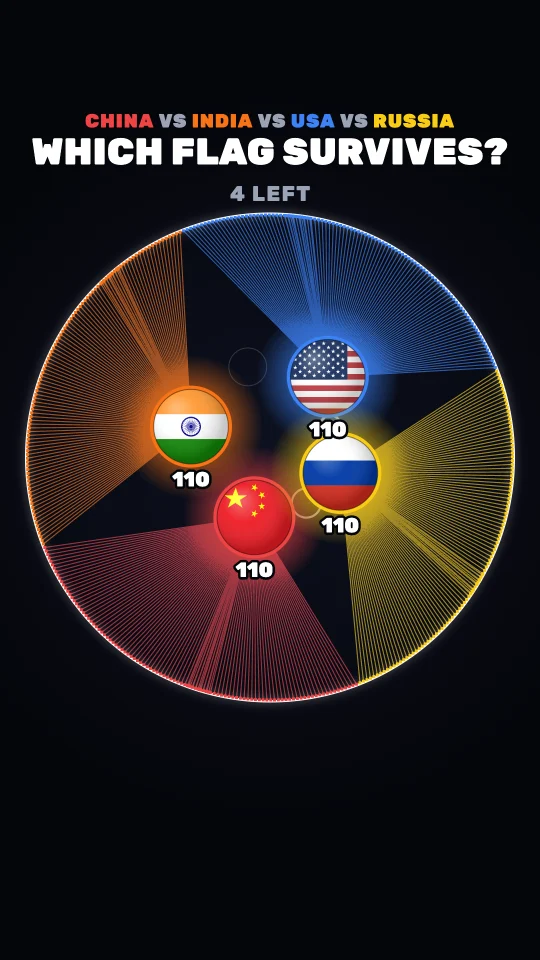
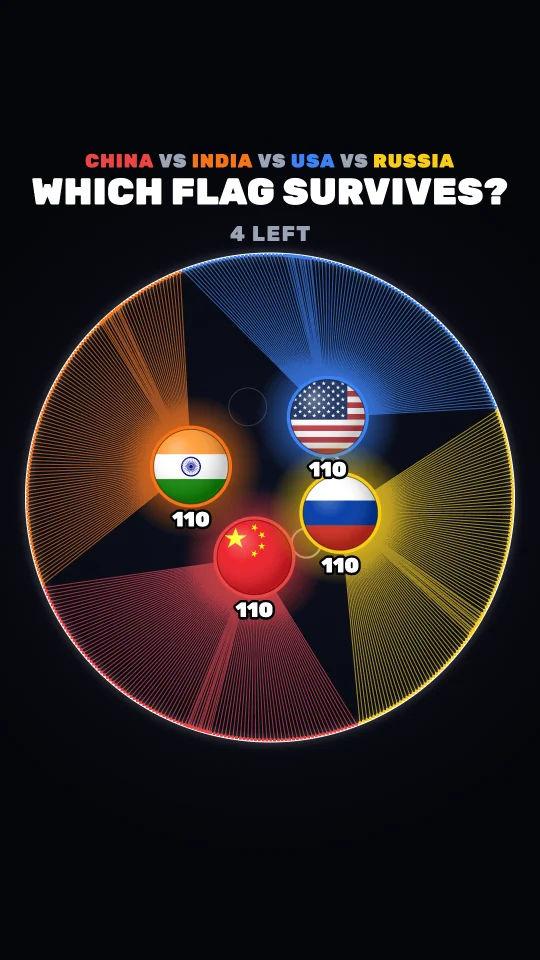
fix: draw arena clash lower on the frame

diff --git a/src/render/battle.ts b/src/render/battle.ts
@@ -36,10 +36,19 @@ const STAGE_LIT = '#0d1120';
 const PANEL = '#12162a';
 /** The words that are not the headline: how many are left, the result under the winner. */
 const MUTED = '#9aa3b5';
-/** The title block, by the middle of each line: under the platforms' top bar (to y 209), over the ring (from 430). */
-const KICKER_Y = 244;
-const HEADLINE_Y = 308;
-const STATUS_Y = 388;
+/**
+ * px the whole picture sits below the simulation's arena (layout.ts ARENA): the ring is drawn
+ * centred at y 995, not 915. Moved in the drawing alone, since a battle's every px is worked out
+ * from where the arena is, and a battle recorded before must open again in the studio exactly as
+ * it played. Measured on the three apps on a 6.1" phone, where the video fills the screen's
+ * height: TikTok's search bar reaches y 247 and Instagram's profile grid shows only y 240–1680
+ * (3:4), so the names at 244 were cut and the black under the ring was a third of the frame.
+ */
+const DROP = 80;
+/** The title block, by the middle of each line: under TikTok's search bar (to y 247) and the profile grid's top (240), over the ring (from 510). */
+const KICKER_Y = 244 + DROP;
+const HEADLINE_Y = 308 + DROP;
+const STATUS_Y = 388 + DROP;
 /** The widest a line of the title may be: 60 px a side. */
 const TITLE_W = 960;
 /** The smallest the names over the title are set: under 28 px a name is not read on a phone, and the line says how many flags instead. */
@@ -58,17 +67,19 @@ const GHOST = 0.22;
 const TRAIL = 10;
 /**
  * The line under the ring, in the middle of the frame: the follow button and the slow motion
- * tag, never both at once (battleFollowAt). Between the ring (to y 1400, its glow a little
+ * tag, never both at once (battleFollowAt). Between the ring (to y 1480, its glow a little
  * further) and the free plan's mark; the black below that is the platforms' caption, account
- * and music, where a button would be read by nobody.
+ * and music (from about y 1620 on TikTok, 1690 on Shorts, 1740 on Reels, measured), where a
+ * button would be read by nobody.
  */
-const FOOTER_Y = 1452;
-/** Where the free plan's mark sits: under that line, the last thing above the platforms' caption zone (from y 1521). */
-const WATERMARK_Y = 1501;
+const FOOTER_Y = 1452 + DROP;
+/** Where the free plan's mark sits: under that line, above the platforms' captions. */
+const WATERMARK_Y = 1501 + DROP;
 /** The follow button on the stage: framed in white, and white with dark type once followed. */
 const FOLLOW_STYLE: FollowStyle = { ink: WHITE, card: WHITE, text: STAGE, shadow: false };
-/** The winner card's button, under the card as the race's is. */
-const FOLLOW_Y = 1330;
+/** The winner card's middle, over the ring's, and its button under it, as the race's is. */
+const CARD_Y = 1000 + DROP;
+const FOLLOW_Y = 1330 + DROP;
 
 /** What the page tells this renderer about a frame of a battle. */
 export interface BattleOverlay extends Overlay {
@@ -191,6 +202,9 @@ export class BattleRenderer {
     ctx.save();
     ctx.translate(sx, sy);
     this.drawTitle(world, cfg, colors);
+    // The arena and all that happens in it, in the simulation's own px, DROP lower on the frame.
+    ctx.save();
+    ctx.translate(0, DROP);
     this.drawRing();
     this.drawGhosts();
     this.drawStrings(world, colors);
@@ -201,6 +215,7 @@ export class BattleRenderer {
     if (world.winner === null) for (const f of world.flags) if (f.alive) this.drawCount(f);
     this.drawSparks();
     this.effects.drawPieces(ctx, false);
+    ctx.restore();
     if (this.slow > 0 && world.winner === null) this.drawSlowTag();
     ctx.restore();
 
@@ -595,7 +610,7 @@ export class BattleRenderer {
     ctx.fillStyle = rgba(STAGE, 0.8);
     ctx.fillRect(0, 0, W, H);
     const pop = easeOutBack(Math.min(1, overlay.age / 0.45));
-    ctx.translate(W / 2, 1000);
+    ctx.translate(W / 2, CARD_Y);
     ctx.scale(pop, pop);
     const cw = 860;
     const ch = cta ? 500 : 420;
@@ -703,7 +718,7 @@ function paintStage(): HTMLCanvasElement {
   const ctx = canvas.getContext('2d')!;
   ctx.fillStyle = STAGE;
   ctx.fillRect(0, 0, W, H);
-  const light = ctx.createRadialGradient(ARENA.x, ARENA.y, 0, ARENA.x, ARENA.y, ARENA.r * 1.5);
+  const light = ctx.createRadialGradient(ARENA.x, ARENA.y + DROP, 0, ARENA.x, ARENA.y + DROP, ARENA.r * 1.5);
   light.addColorStop(0, STAGE_LIT);
   light.addColorStop(1, rgba(STAGE_LIT, 0));
   ctx.fillStyle = light;

diff --git a/src/layout.ts b/src/layout.ts
@@ -65,12 +65,13 @@ export const VS_Y = cardBottom(TOP) + BETWEEN / 2;
 
 // ── Arena Clash ─────────────────────────────────────────────────────────────
 //
-// One round arena filling the frame's width but 55 px a side, the flags bouncing inside it. What
-// the platforms leave free is y 209 to 1521 (their top bar, their caption zone): the battle's
-// title (src/render/battle.ts) takes 225 to 416 of it, the ring 430 to 1400, and under the ring,
-// in the middle, a line for the follow button or the slow motion tag (1452) and the free plan's
-// watermark (1501). The side buttons' column (x 940 on, from y 902) crosses the ring's right
-// edge: a circle this big cannot keep out of it, and the balls are rarely there.
+// One round arena filling the frame's width but 55 px a side, the flags bouncing inside it. This
+// is the simulation's arena, where every battle is worked out and replayed: the picture is drawn
+// 80 px lower (DROP in src/render/battle.ts), the ring from y 510 to 1480 on the frame, with the
+// battle's title over it and, under it in the middle, a line for the follow button or the slow
+// motion tag and the free plan's watermark. The side buttons' column (x 940 on, from y 902)
+// crosses the ring's right edge: a circle this big cannot keep out of it, and the balls are
+// rarely there.
 
-/** The arena: centre and radius of the ring's inner edge, where balls bounce and strings are tied. */
+/** The arena in the simulation: centre and radius of the ring's inner edge, where balls bounce and strings are tied. Moving it changes every battle. */
 export const ARENA = { x: W / 2, y: 915, r: 485 };

diff --git a/docs/arena-clash.md b/docs/arena-clash.md
@@ -25,7 +25,7 @@ cards and the Videos page's thumbnails ([website](./website.md#4-the-home-page))
 | the dice: flags from a region, its words | `randomBattle` in [battle-balance.ts](../src/sim/battle-balance.ts); the regions in [src/battle/countries.ts](../src/battle/countries.ts) `DICE_REGIONS` |
 | which countries are offered, their names, figures | [src/battle/countries.ts](../src/battle/countries.ts), the SVGs in [public/flags/](../public/flags/) |
 | a flag's picture, its strings' colour | [src/battle/flags.ts](../src/battle/flags.ts) |
-| the arena's geometry | `ARENA` in [src/layout.ts](../src/layout.ts) (physics: run `npm run tune`) |
+| the arena's geometry | `ARENA` in [src/layout.ts](../src/layout.ts) (physics: run `npm run tune`, and a battle recorded before no longer replays as it played); where the picture sits on the frame, `DROP` and the title's heights in [src/render/battle.ts](../src/render/battle.ts) |
 | how it looks: the stage, the title, N LEFT and OUT, the strings, the balls and their counts, effects, the slow motion tag, the follow button, the winner card, the watermark | [src/render/battle.ts](../src/render/battle.ts) `BattleRenderer` |
 | what both games draw with (type, colour sums, the mark), the follow button itself | [src/render/draw.ts](../src/render/draw.ts), [src/render/follow.ts](../src/render/follow.ts) |
 | what it sounds like | `Sonifier.battle` in [src/audio/sonify.ts](../src/audio/sonify.ts) |
@@ -197,13 +197,13 @@ preview marks, the base `Overlay`) and [follow.ts](../src/render/follow.ts) (the
 
 - **The title**, under the platforms' top bar and over the ring, from the first frame to the
   last, so the first frame is the thumbnail:
-  - who is in it, at y 244: up to four flags' names, each in its strings' colour, with VS
+  - who is in it, at y 324: up to four flags' names, each in its strings' colour, with VS
     between ("SERBIA VS CROATIA VS SLOVENIA"), 38 px or as small as 28 to fit, those out dimmed
     and struck through; from five flags, or when four long names would not fit, "8 FLAGS · ONE
     SURVIVES";
-  - the question in big white type at y 308 (up to 84 px, fitted to 960 px): the video's
+  - the question in big white type at y 388 (up to 84 px, fitted to 960 px): the video's
     `look.question`, which the narrator's opening ends on, in capitals without its full stop;
-  - how many are left at y 388 ("2 LEFT"), centred and alone. For 1.7 s after a flag goes it is
+  - how many are left at y 468 ("2 LEFT"), centred and alone. For 1.7 s after a flag goes it is
     that flag and "CROATIA OUT" in its colour instead, popping in. Who went is said in the names
     above: a flag out stays where it was, dimmed and struck through. Small flags of those gone
     beside "2 LEFT" read as the two that are left, so there are none.
@@ -216,21 +216,28 @@ preview marks, the base `Overlay`) and [follow.ts](../src/render/follow.ts) (the
 - **Effects**: cut strings linger 0.22 s as ghosts, white then their colour, with sparks off the
   rival; every bounce ripples on the ring where it ties, two balls meeting ripple white; a flag
   out bursts into pieces with a shake.
-- **Under the ring, in the middle of the frame** (`FOOTER_Y`, 1452): a red dot and SLOW MOTION
+- **Under the ring, in the middle of the frame** (`FOOTER_Y`, 1532): a red dot and SLOW MOTION
   while an out plays slowed, and once in the battle the **follow button** (`look.follow`), the
   race's own (follow.ts): it pops in red, a hand comes up and taps it, it turns to FOLLOWING and
   fades, 2.4 s in all. `battleFollowAt` picks the moment: near 45 % of the battle, clear of every
-  out's slow motion and OUT, so the two never share the line. The frame is laid out for it: the
-  platforms leave y 209 to 1521 free, the title takes 225 to 416, the ring 430 to 1400, then
-  this line and the watermark. ⚠ The black below 1521 looks free in the studio and is not: it
+  out's slow motion and OUT, so the two never share the line.
+- **Where it all sits** was measured on the three apps on a 6.1" phone, where the video fills the
+  screen's height: TikTok's search bar reaches y 247, Instagram's and YouTube's top buttons 210;
+  the captions start at about y 1620 on TikTok (its pinned comment, while it shows, at 1460),
+  1690 on Shorts and 1740 on Reels; and Instagram's profile grid shows only y 240–1680 of a reel
+  (3:4). So the title takes y 305 to 495, the ring 510 to 1480, the line under it 1532 and the
+  watermark 1581, all inside the grid's crop, and the black under the ring is the captions'. The
+  picture is drawn `DROP` (80 px) lower than the simulation's arena (`ARENA`, centre y 915),
+  which stays where every battle so far was worked out, so one recorded before still opens in
+  the studio as it played. ⚠ The black below the line looks free in the studio and is not: it
   is where the platforms put the caption, the account and the music (More → Video → *Show where
   TikTok, Reels and Shorts put their buttons* shows it). A button there is read by nobody.
 - **The winner card**: a dark card framed in the winner's colour, its flag big over it, WINNER,
   its name, "Last flag standing · 26.0 s", and the last line; confetti; with `look.follow` the
   follow button under it in the winner's colour, tapped 1.5 s in and left as FOLLOWING, and the
   card held 2.5 s at least (pacing.ts), as the race's.
-- **The watermark** (a plan with `watermark`) sits under the arena, centred at y 1501, above the
-  platforms' caption zone (from y 1520). The ring's right edge crosses the platforms' side
+- **The watermark** (a plan with `watermark`) sits under the arena, centred at y 1581, above the
+  platforms' captions. The ring's right edge crosses the platforms' side
   buttons' column (x 940 on, from y 902): a circle this big cannot keep out of it. The preview
   marks across the frame are in the preview alone.
 
@@ -300,3 +307,4 @@ the thumbnail; Open in studio replays it exactly. The superadmin's text for post
 - 2026-11-12 - every bounce off the ring ties a bundle: a full ball lets go of its oldest strings as it does (they fade), so its count never falls at a bounce; the balls speed up as a battle goes on (to twice their starting speed, `pace`), which ends long duels; two balls meeting swerve a little (`CLASH`), which ends the head-on ping-pong.
 - 2026-11-12 - no most: every bounce adds ten whatever a ball holds, and strings go only by being cut; the fuse, `HOLD`, `FLOOR` and `DUEL` are gone, and balancing chooses the seed and the starting speed alone.
 - 2026-11-12 - named Arena Clash (`arena-clash`), from Flag Battle: a name of its own, not its flags'; an icon for each game (public/games/), on the studio's switch, the site's game cards and the Videos page's thumbnails.
+- 2026-11-12 - the picture 80 px lower (`DROP`, the drawing alone): the names were under TikTok's search bar and cut in Instagram's profile grid, and a third of the frame was black under the ring; positions measured on the three apps.
